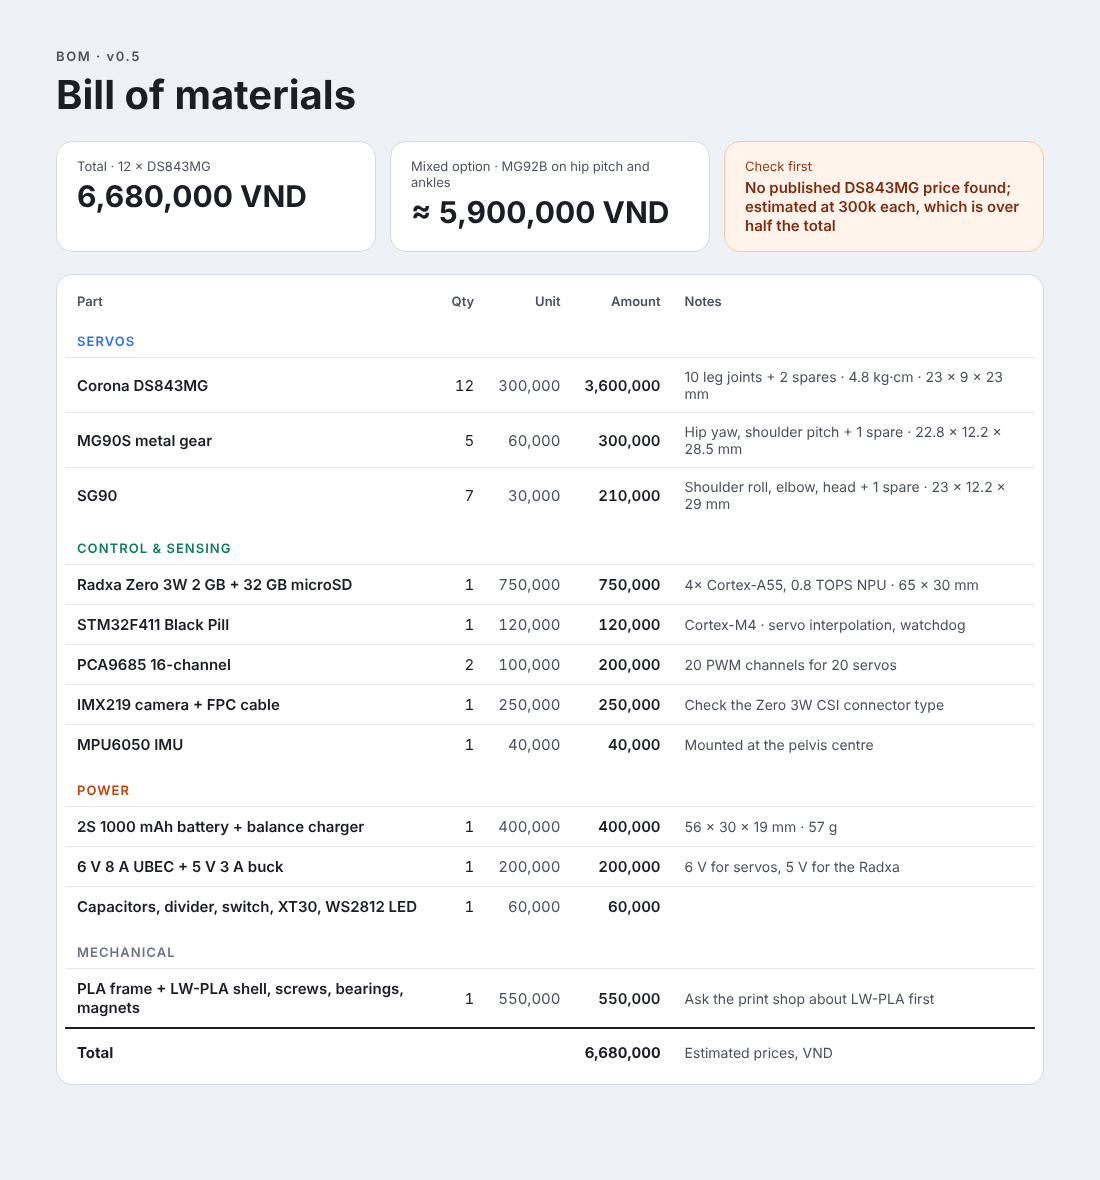
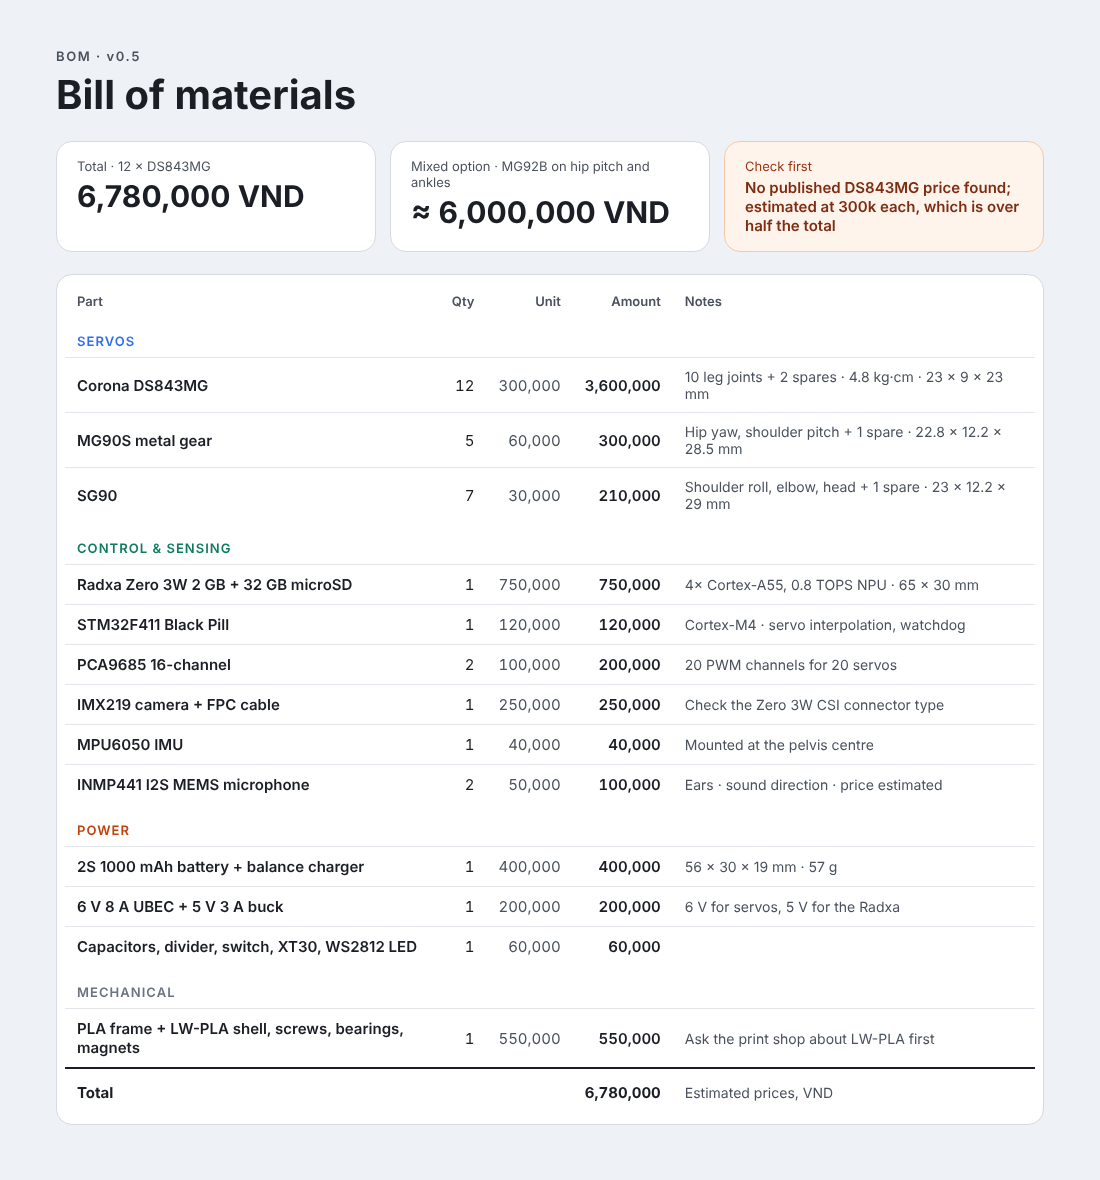
docs(design): add two INMP441 mics to the BOM

diff --git a/docs/design/sketch_shell_a/BOM.dc.html b/docs/design/sketch_shell_a/BOM.dc.html
@@ -22,11 +22,11 @@ body{margin:0}
 <div style="display: flex; gap: 14px">
 <div style="flex: 1 1 0; background: #FFFFFF; border: 1px solid #D5DAE1; border-radius: 16px; padding: 16px 20px; display: flex; flex-direction: column; gap: 4px">
 <span style="font-size: 13px; color: #4A515C">Total · 12 × DS843MG</span>
-<span style="font-family: 'Space Grotesk', Inter, sans-serif; font-size: 30px; font-weight: 700">6,680,000 VND</span>
+<span style="font-family: 'Space Grotesk', Inter, sans-serif; font-size: 30px; font-weight: 700">6,780,000 VND</span>
 </div>
 <div style="flex: 1 1 0; background: #FFFFFF; border: 1px solid #D5DAE1; border-radius: 16px; padding: 16px 20px; display: flex; flex-direction: column; gap: 4px">
 <span style="font-size: 13px; color: #4A515C">Mixed option · MG92B on hip pitch and ankles</span>
-<span style="font-family: 'Space Grotesk', Inter, sans-serif; font-size: 30px; font-weight: 700">≈ 5,900,000 VND</span>
+<span style="font-family: 'Space Grotesk', Inter, sans-serif; font-size: 30px; font-weight: 700">≈ 6,000,000 VND</span>
 </div>
 <div style="flex: 1 1 0; background: #FFF4EC; border: 1px solid #F5C9A8; border-radius: 16px; padding: 16px 20px; display: flex; flex-direction: column; gap: 4px">
 <span style="font-size: 13px; color: #9A3412">Check first</span>
@@ -53,6 +53,7 @@ body{margin:0}
 <tr style="border-top: 1px solid #E3E7EC"><td style="padding: 10px 12px; font-weight: 600">PCA9685 16-channel</td><td style="padding: 10px 12px; text-align: right; font-variant-numeric: tabular-nums">2</td><td style="padding: 10px 12px; text-align: right; font-variant-numeric: tabular-nums; color: #4A515C">100,000</td><td style="padding: 10px 12px; text-align: right; font-variant-numeric: tabular-nums; font-weight: 600">200,000</td><td style="padding: 10px 12px; color: #4A515C; font-size: 14px">20 PWM channels for 20 servos</td></tr>
 <tr style="border-top: 1px solid #E3E7EC"><td style="padding: 10px 12px; font-weight: 600">IMX219 camera + FPC cable</td><td style="padding: 10px 12px; text-align: right; font-variant-numeric: tabular-nums">1</td><td style="padding: 10px 12px; text-align: right; font-variant-numeric: tabular-nums; color: #4A515C">250,000</td><td style="padding: 10px 12px; text-align: right; font-variant-numeric: tabular-nums; font-weight: 600">250,000</td><td style="padding: 10px 12px; color: #4A515C; font-size: 14px">Check the Zero 3W CSI connector type</td></tr>
 <tr style="border-top: 1px solid #E3E7EC"><td style="padding: 10px 12px; font-weight: 600">MPU6050 IMU</td><td style="padding: 10px 12px; text-align: right; font-variant-numeric: tabular-nums">1</td><td style="padding: 10px 12px; text-align: right; font-variant-numeric: tabular-nums; color: #4A515C">40,000</td><td style="padding: 10px 12px; text-align: right; font-variant-numeric: tabular-nums; font-weight: 600">40,000</td><td style="padding: 10px 12px; color: #4A515C; font-size: 14px">Mounted at the pelvis centre</td></tr>
+<tr style="border-top: 1px solid #E3E7EC"><td style="padding: 10px 12px; font-weight: 600">INMP441 I2S MEMS microphone</td><td style="padding: 10px 12px; text-align: right; font-variant-numeric: tabular-nums">2</td><td style="padding: 10px 12px; text-align: right; font-variant-numeric: tabular-nums; color: #4A515C">50,000</td><td style="padding: 10px 12px; text-align: right; font-variant-numeric: tabular-nums; font-weight: 600">100,000</td><td style="padding: 10px 12px; color: #4A515C; font-size: 14px">Ears · sound direction · price estimated</td></tr>
 <tr><td colspan="5" style="padding: 18px 12px 8px; font-size: 13px; font-weight: 600; letter-spacing: 0.08em; color: #C2410C; text-transform: uppercase">Power</td></tr>
 <tr style="border-top: 1px solid #E3E7EC"><td style="padding: 10px 12px; font-weight: 600">2S 1000 mAh battery + balance charger</td><td style="padding: 10px 12px; text-align: right; font-variant-numeric: tabular-nums">1</td><td style="padding: 10px 12px; text-align: right; font-variant-numeric: tabular-nums; color: #4A515C">400,000</td><td style="padding: 10px 12px; text-align: right; font-variant-numeric: tabular-nums; font-weight: 600">400,000</td><td style="padding: 10px 12px; color: #4A515C; font-size: 14px">56 × 30 × 19 mm · 57 g</td></tr>
 <tr style="border-top: 1px solid #E3E7EC"><td style="padding: 10px 12px; font-weight: 600">6 V 8 A UBEC + 5 V 3 A buck</td><td style="padding: 10px 12px; text-align: right; font-variant-numeric: tabular-nums">1</td><td style="padding: 10px 12px; text-align: right; font-variant-numeric: tabular-nums; color: #4A515C">200,000</td><td style="padding: 10px 12px; text-align: right; font-variant-numeric: tabular-nums; font-weight: 600">200,000</td><td style="padding: 10px 12px; color: #4A515C; font-size: 14px">6 V for servos, 5 V for the Radxa</td></tr>
@@ -60,7 +61,7 @@ body{margin:0}
 <tr><td colspan="5" style="padding: 18px 12px 8px; font-size: 13px; font-weight: 600; letter-spacing: 0.08em; color: #6B7380; text-transform: uppercase">Mechanical</td></tr>
 <tr style="border-top: 1px solid #E3E7EC"><td style="padding: 10px 12px; font-weight: 600">PLA frame + LW-PLA shell, screws, bearings, magnets</td><td style="padding: 10px 12px; text-align: right; font-variant-numeric: tabular-nums">1</td><td style="padding: 10px 12px; text-align: right; font-variant-numeric: tabular-nums; color: #4A515C">550,000</td><td style="padding: 10px 12px; text-align: right; font-variant-numeric: tabular-nums; font-weight: 600">550,000</td><td style="padding: 10px 12px; color: #4A515C; font-size: 14px">Ask the print shop about LW-PLA first</td></tr>
 <tr style="border-top: 2px solid #1B1E24"><td style="padding: 14px 12px; font-weight: 700">Total</td><td></td><td></td>
-<td style="padding: 14px 12px; text-align: right; font-weight: 700; font-variant-numeric: tabular-nums">6,680,000</td>
+<td style="padding: 14px 12px; text-align: right; font-weight: 700; font-variant-numeric: tabular-nums">6,780,000</td>
 <td style="padding: 14px 12px; color: #4A515C; font-size: 14px">Estimated prices, VND</td></tr>
 </tbody>
 </table>

diff --git a/docs/design/sketch_shell_a/README.md b/docs/design/sketch_shell_a/README.md
@@ -45,7 +45,7 @@ Pauldrons widen it to about 132 mm (A: 119) and must ride on the upper arm so sh
 | `ShellB.dc.html` | Shell B (villain) armor, front and side |
 | `Side.dc.html` | Side view with depths, internal layout and CoM (146 mm) |
 | `Joints.dc.html` | 20-joint map, colored by servo (DS843MG / MG90S / SG90) |
-| `BOM.dc.html` | Bill of materials, about 6.68M VND |
+| `BOM.dc.html` | Bill of materials, about 6.78M VND |
 | `Drawing.dc.html` | GA drawing, first-angle projection (front, side, top), A1 at 1:1 |
 | `canvas.json` | Canvas layout |
 | `images/*.png` | Rendered exports of the three artboards |
